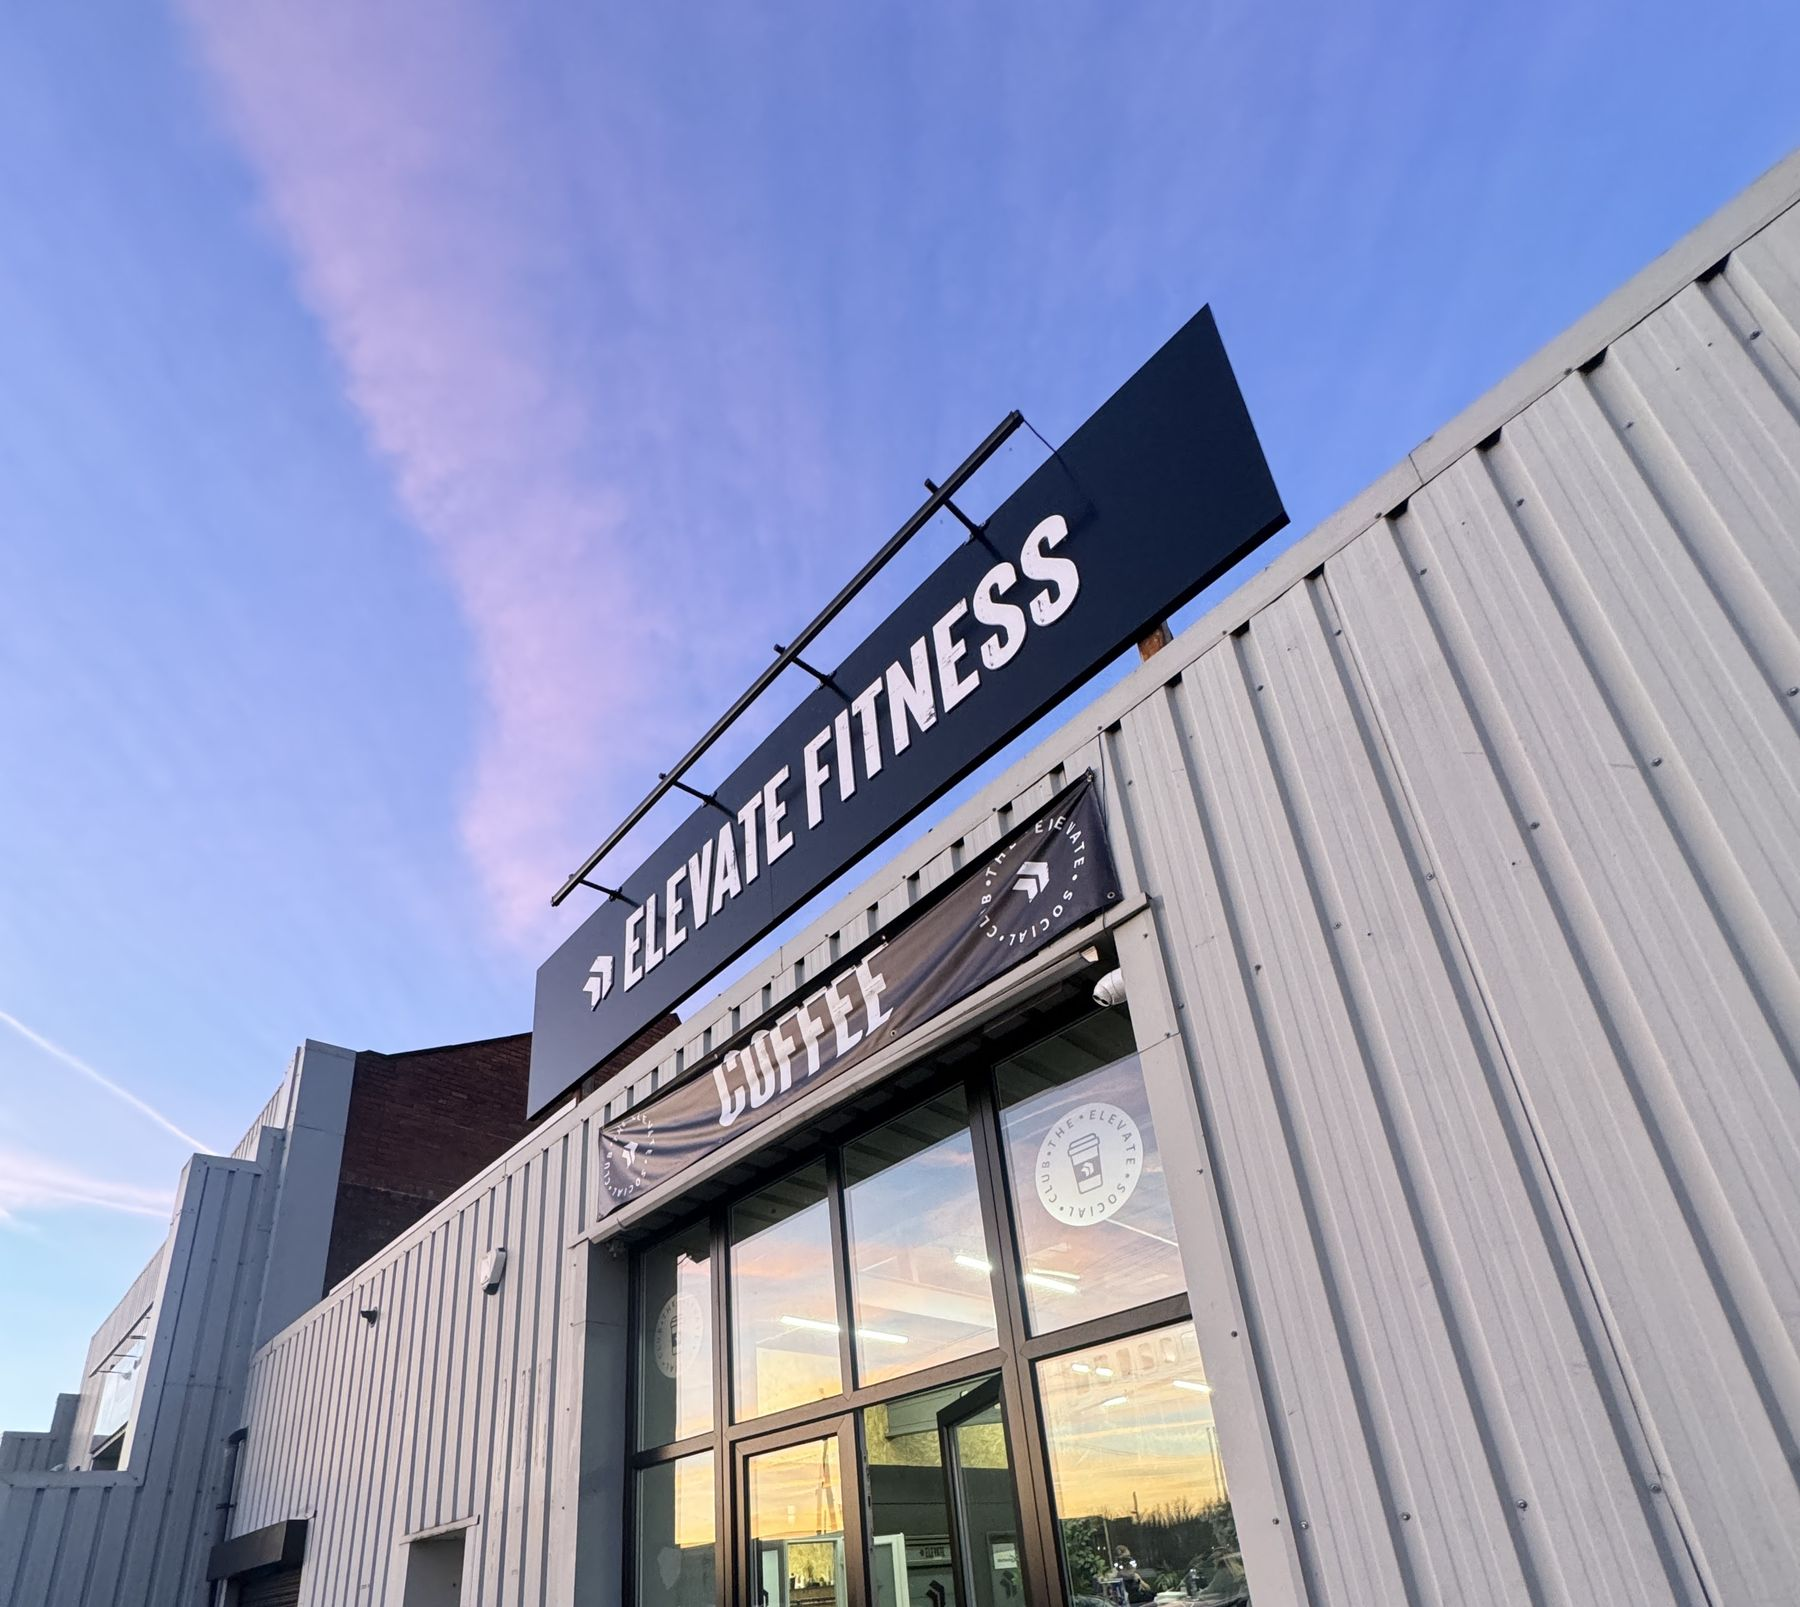
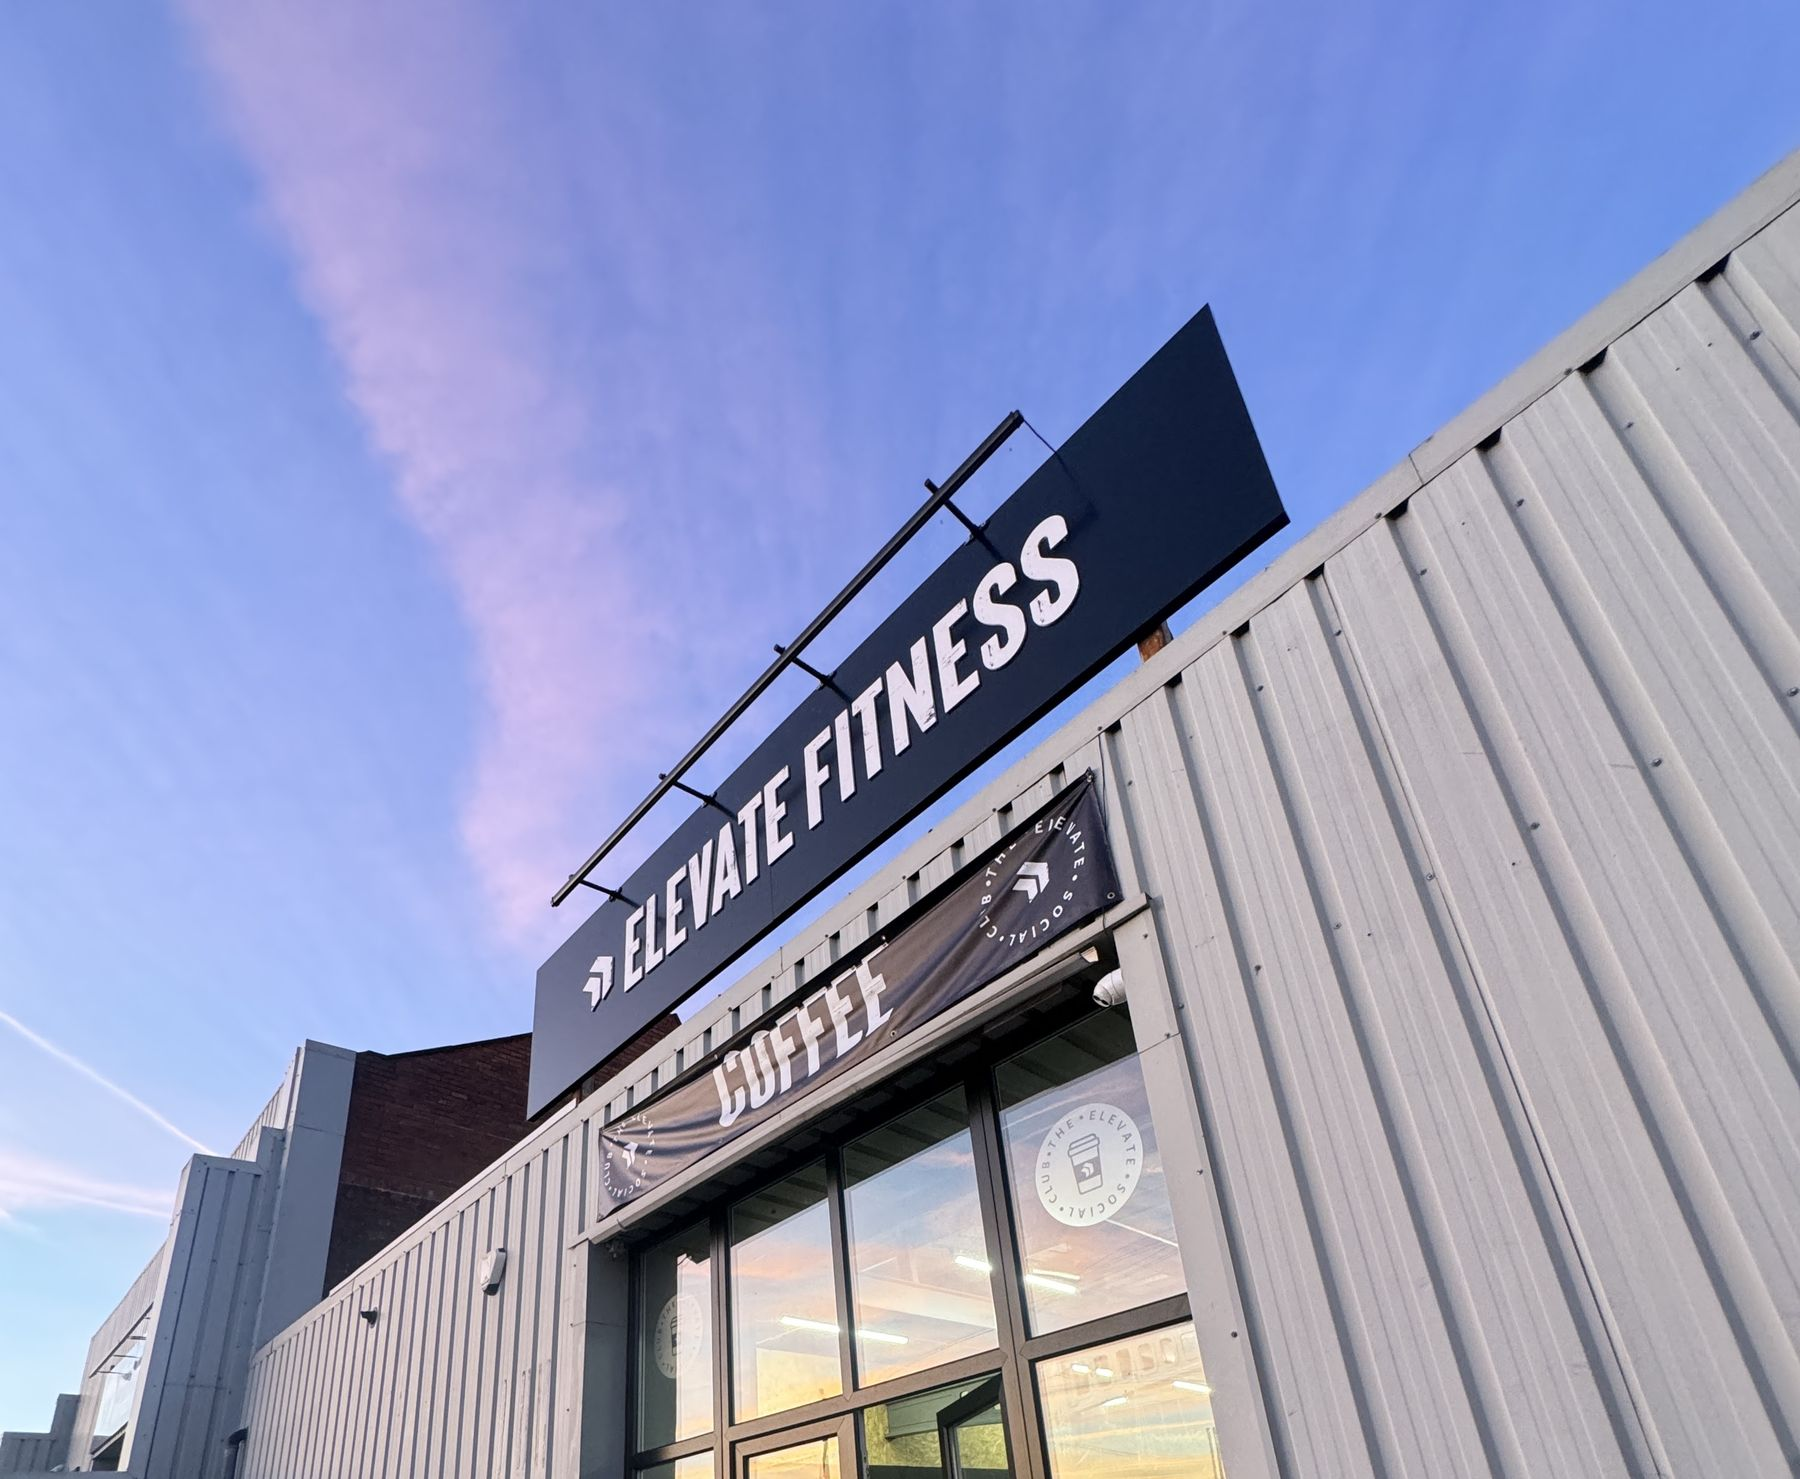
r5: photo-free runs <=0.80 at 320 (entrance after timetable, unit after prices, tighter tail); entrance beside timetable at 960+; hero split panel at 1560+; hero crop 8% off bottom; class intro reword

diff --git a/styles.css b/styles.css
@@ -186,17 +186,23 @@ a { color: inherit; }
 .price-list h3 { font-family: var(--body); font-weight: 700; font-size: 1.0625rem; line-height: 1.3; }
 .price-list p { color: var(--on-purple-soft); font-size: 0.9375rem; line-height: 1.35; }
 .price { font-family: var(--display); font-weight: 800; font-size: 1.35rem; white-space: nowrap; line-height: 1.2; }
-.small-note { margin-top: 0.5rem; font-size: 0.875rem; color: var(--on-purple-soft); }
+.small-note { font-size: 0.875rem; color: var(--on-purple-soft); }
+.mem-head { display: flex; flex-wrap: wrap; align-items: baseline; justify-content: space-between; gap: 0 1rem; }
 .mem-photo img { width: 100%; border-radius: var(--radius); aspect-ratio: 4 / 3; object-fit: cover; }
 /* Below desktop: the unit photo opens the section, above the price list */
 @media (max-width: 959px) {
   .mem-card { display: contents; }
-  .mem-photo { order: -1; }
   .mem-photo img { aspect-ratio: 16 / 10; min-height: 200px; object-position: 50% 40%; }
-  .mem-door img { width: 100%; height: auto; aspect-ratio: 1550 / 900; min-height: 200px; object-fit: cover; object-position: 50% 45%; border-radius: var(--radius); }
-  .mem-door + .hours { position: relative; margin-top: -3rem; margin-inline: 0.5rem; }
+  .mem-photo + .hours { position: relative; margin-top: -3rem; margin-inline: 0.5rem; }
 }
-@media (min-width: 960px) { .mem-door { display: none; } }
+/* Entrance photo follows the timetable (below it on phones, beside it from 960px) */
+.tt-door { margin-top: 0.6rem; }
+.tt-door img { width: 100%; height: auto; aspect-ratio: 1550 / 900; min-height: 200px; object-fit: cover; object-position: 50% 45%; border-radius: var(--radius); }
+@media (min-width: 960px) {
+  .tt-grid { display: grid; grid-template-columns: minmax(0, 1fr) 440px; gap: 2.5rem; align-items: center; }
+  .tt-door { margin: 0; }
+  .tt-door img { aspect-ratio: auto; width: 440px; height: 450px; min-height: 0; object-position: 50% 50%; }
+}
 .hours {
   background: var(--chalk); color: var(--ink);
   border-radius: var(--radius); padding: 1rem 1.1rem;
@@ -229,7 +235,8 @@ a { color: inherit; }
 .ev-text h2 { font-size: clamp(2.4rem, 10vw, 4.2rem); color: var(--purple); }
 .ev-text blockquote { margin: 0.9rem 0 0; padding-left: 1rem; border-left: 4px solid var(--purple); }
 .ev-text blockquote p { font-size: 1.15rem; line-height: 1.45; }
-.ev-text blockquote footer { margin-top: 0.4rem; font-size: 0.9375rem; color: var(--ink-soft); }
+.ev-text blockquote cite { font-style: normal; font-size: 0.9375rem; color: var(--ink-soft); white-space: nowrap; }
+.ev-text blockquote cite::before { content: "– "; }
 .ev-line { margin-top: 0.75rem; font-weight: 600; }
 .inline-link {
   display: inline-flex; align-items: center; min-height: 44px; padding-inline: 2px;
@@ -245,7 +252,7 @@ a { color: inherit; }
   }
   .ev-text h2 { color: var(--lilac); }
   .ev-text blockquote { border-left-color: var(--lilac); }
-  .ev-text blockquote footer { color: var(--on-purple-soft); }
+  .ev-text blockquote cite { color: var(--on-purple-soft); }
 }
 .visit-block {
   background: var(--purple); color: #fff;
@@ -298,25 +305,25 @@ a { color: inherit; }
 
   /* Whiteboard overlaps the rig photo, like the hero panel */
   .timetable { padding-block: 0 1rem; }
-  .board { position: relative; margin: -3rem 0.5rem 0; padding: 0.9rem 0.85rem 1rem; }
-  .board h2 { font-size: 2.2rem; }
+  .board { position: relative; margin: -3rem 0.5rem 0; padding: 0.8rem 0.85rem 0.85rem; }
+  .board h2 { font-size: 2.1rem; }
   .tt { margin-top: 0.5rem; font-size: 0.875rem; }
   .tt tbody, .tt tr { display: block; }
-  .tt tr { border-top: 1px solid var(--ink); padding: 0.3rem 0; line-height: 1.4; }
+  .tt tr { border-top: 1px solid var(--ink); padding: 0.25rem 0; line-height: 1.4; }
   .tt tr:last-child { border-bottom: 1px solid var(--ink); }
   .tt th, .tt td, .tt tr:last-child th, .tt tr:last-child td { display: inline; border: 0; padding: 0; }
   .tt th { width: auto; padding: 0; margin-right: 0.45rem; font-size: 1.15rem; }
   .tt th::after { content: ""; display: inline-block; width: 0.45rem; }
-  .board-foot { gap: 0.6rem; margin-top: 0.75rem; }
+  .board-foot { gap: 0.5rem; margin-top: 0.6rem; }
   .note { font-size: 0.875rem; }
 
 
-  .memberships { padding-block: 0.75rem 1.1rem; }
+  .memberships { padding-block: 0.5rem 1.1rem; }
   .mem-grid { gap: 0.75rem; }
-  .mem-panel h2 { font-size: 1.9rem; }
+  .mem-panel h2 { font-size: 1.75rem; }
   .price-list { margin-top: 0.5rem; }
   /* Name and price on one line, detail runs full width beneath */
-  .price-list li { display: grid; grid-template-columns: 1fr auto; column-gap: 0.75rem; padding: 0.3rem 0; }
+  .price-list li { display: grid; grid-template-columns: 1fr auto; column-gap: 0.75rem; row-gap: 0.05rem; padding: 0.3rem 0; }
   .price-list li > div { display: contents; }
   .price-list h3 { grid-column: 1; grid-row: 1; font-size: 1rem; }
   .price { grid-column: 2; grid-row: 1; font-size: 1.2rem; }
@@ -325,31 +332,31 @@ a { color: inherit; }
   .hours h3 { font-size: 1.45rem; }
   .hours table { font-size: 0.9375rem; margin-top: 0.3rem; }
 
-  .reviews { padding-block: 1rem 0.75rem; }
+  .reviews { padding-block: 0.6rem 0.6rem; }
   .reviews h2 { font-size: 1.4rem; }
-  .review-grid { margin-top: 0.5rem; align-items: stretch; }
-  .review { padding: 0.8rem 0.9rem; gap: 0.5rem; }
+  .review-grid { margin-top: 0.4rem; gap: 0.5rem; align-items: stretch; }
+  .review { padding: 0.65rem 0.8rem; gap: 0.35rem; }
   .review blockquote p { font-size: 0.9375rem; line-height: 1.4; }
   .review figcaption { font-size: 0.875rem; line-height: 1.4; }
 
-  .visit { padding-block: 1rem 0.75rem; }
+  .visit { padding-block: 0.6rem 0.6rem; }
   .ev-grid { gap: 0.6rem; }
-  .ev-text { padding: 0.85rem 0.9rem 0.9rem; }
+  .ev-text { padding: 0.7rem 0.85rem 0.75rem; }
   .ev-text h2 { font-size: 1.85rem; }
-  .ev-text blockquote { margin-top: 0.6rem; padding-left: 0.8rem; }
+  .ev-text blockquote { margin-top: 0.4rem; padding-left: 0.7rem; }
   .ev-text blockquote p { font-size: 0.9375rem; line-height: 1.4; }
-  .ev-text blockquote footer { font-size: 0.875rem; margin-top: 0.25rem; }
+  .ev-text blockquote cite { font-size: 0.875rem; }
   .ev-line { margin-top: 0.5rem; font-size: 0.9375rem; }
-  .visit-block { padding: 0.9rem 1rem 1rem; }
+  .visit-block { padding: 0.75rem 1rem 0.8rem; }
   .visit-block::after { width: 14%; }
   .visit-block > * { max-width: 88%; }
-  .visit-block h2 { font-size: 1.9rem; }
+  .visit-block h2 { font-size: 1.6rem; }
   .visit-block address { margin-top: 0.5rem; }
-  .visit-address { font-size: 1rem; }
+  .visit-address { font-size: 0.9375rem; }
   .tel { font-size: 1.0625rem; }
   .visit-block .btn-row { margin-top: 0.4rem; }
 
-  .site-footer { padding-block: 0.75rem 1rem; }
+  .site-footer { padding-block: 0.6rem 0.7rem; }
   .footer-inner { gap: 0.25rem; }
   .footer-brand, .footer-links { display: none; }
   .footer-links { gap: 0 0.9rem; }
@@ -367,7 +374,7 @@ a { color: inherit; }
   .btn { padding: 0.6rem 0.85rem; font-size: 0.9375rem; }
   .btn-row { gap: 0.45rem; }
   .memberships { padding-top: 0.9rem; }
-  .band-phone { padding-top: 0.75rem; }
+  .band-phone { padding-top: 0.6rem; gap: 0.4rem; }
   .class-list > div { grid-template-columns: 5.6rem minmax(0, 1fr); }
   .price-list li { padding: 0.25rem 0; }
   .price-list p { line-height: 1.25; }
@@ -469,8 +476,16 @@ a { color: inherit; }
   .credit { grid-column: 1 / -1; }
 }
 
-/* Wide screens: cap the hero at the source's native width so 2x screens stay at or under 1.0x */
+/* Wide screens: the photo stops at its native 1512px against the right edge (2x screens stay at or under 1.0x);
+   a full-height solid panel fills the space to its left and carries the heading */
 @media (min-width: 1560px) {
-  .hero-photo { max-width: 1512px; margin-inline: auto; }
-  .hero-panel { left: calc((100% - 1512px) / 2 + 1.5rem); }
+  .hero { display: grid; grid-template-columns: minmax(460px, 1fr) minmax(0, 1512px); background: var(--purple-deep); }
+  .hero-photo { grid-column: 2; grid-row: 1; width: 100%; max-width: 1512px; }
+  .hero-panel {
+    grid-column: 1; grid-row: 1; position: static; min-width: 0; max-width: none;
+    display: flex; flex-direction: column; justify-content: center;
+    padding: 3rem clamp(2rem, 4vw, 4.5rem); border-radius: 0; background: var(--purple-deep);
+  }
+  .hero-panel h1 { font-size: clamp(3rem, 3.4vw, 4.4rem); max-width: 12ch; }
+  .hero-panel p { max-width: 30rem; }
 }

diff --git a/index.html b/index.html
@@ -36,8 +36,8 @@
   <section class="hero" aria-labelledby="hero-title">
     <figure class="hero-photo">
       <picture>
-        <source type="image/webp" srcset="img/hero-1200.webp 1200w, img/hero-1800.webp 1800w, img/hero-2400.webp 2400w, img/hero-3024.webp 3024w" sizes="(max-aspect-ratio: 1/1) calc(100vh * 1.12), (min-width: 1560px) 1512px, 100vw">
-        <img class="hero-img" src="img/hero-1800.jpg" width="1800" height="1607" fetchpriority="high" alt="The Elevate Fitness sign and the COFFEE banner above the glass entrance of Unit 11a at dusk, under a lilac sky">
+        <source type="image/webp" srcset="img/hero-1200.webp 1200w, img/hero-1800.webp 1800w, img/hero-2400.webp 2400w, img/hero-3024.webp 3024w" sizes="(max-aspect-ratio: 1/1) calc(100vh * 1.24), (min-width: 1972px) 1512px, (min-width: 1560px) calc(100vw - 460px), 100vw">
+        <img class="hero-img" src="img/hero-1800.jpg" width="1800" height="1479" fetchpriority="high" alt="The Elevate Fitness sign and the COFFEE banner above the glass entrance of Unit 11a at dusk, under a lilac sky">
       </picture>
     </figure>
     <div class="hero-panel">
@@ -61,7 +61,7 @@
     <div class="wrap classes-grid">
       <div class="classes-head">
         <h2 id="classes-title">Seven classes, one timetable</h2>
-        <p>Every session is coach-led, and Elevate is HYROX affiliated. Descriptions from its own class guide.</p>
+        <p>Every session is coach-led, and Elevate is HYROX affiliated. Summarised from its own class guide.</p>
       </div>
       <dl class="class-list" aria-label="Class types, from Elevate’s class guide">
         <div><dt>HYROX</dt><dd>Ergs, running, stations</dd></div>
@@ -82,7 +82,7 @@
   </section>
 
   <section id="timetable" class="timetable" aria-labelledby="timetable-title">
-    <div class="wrap">
+    <div class="wrap tt-grid">
       <div class="board">
         <h2 id="timetable-title">Winter timetable</h2>
         <table class="tt">
@@ -98,10 +98,16 @@
           </tbody>
         </table>
         <div class="board-foot">
-          <p class="note">From Elevate’s Instagram. Live spaces on WodBoard.</p>
+          <p class="note">Times from Elevate’s Instagram.</p>
           <a class="btn btn-purple" href="https://www.wodboard.com/locations/1076/drop_ins/5667566740" target="_blank" rel="noopener">See live timetable and book</a>
         </div>
       </div>
+      <figure class="tt-door">
+        <picture>
+          <source type="image/webp" srcset="img/esc-entrance-800.webp 800w, img/esc-entrance-1550.webp 1550w" sizes="(min-width: 960px) 780px, max(100vw, 350px)">
+          <img src="img/esc-entrance-1550.jpg" width="1550" height="900" loading="lazy" alt="The open glass doors of Unit 11a with an olive tree in a planter either side and a Recent Beans coffee board by the wall">
+        </picture>
+      </figure>
     </div>
   </section>
 
@@ -109,29 +115,22 @@
   <section id="memberships" class="memberships" aria-labelledby="memberships-title">
     <div class="wrap mem-grid">
       <div class="mem-panel">
-        <h2 id="memberships-title">Memberships</h2>
+        <div class="mem-head"><h2 id="memberships-title">Memberships</h2><p class="small-note">Prices as listed on WodBoard</p></div>
         <ul class="price-list">
-          <li><div><h3>Elevate 12-month</h3><p>Unlimited classes and open gym; first month half price</p></div><span class="price">£63 a month</span></li>
-          <li><div><h3>Elevate rolling monthly</h3><p>Unlimited classes and open gym, 30 days’ notice</p></div><span class="price">£68 a month</span></li>
-          <li><div><h3>Two sessions a week</h3><p>2 classes a week plus unlimited open gym (3-month minimum)</p></div><span class="price">£55 a month</span></li>
+          <li><div><h3>Elevate 12-month</h3><p>Classes and open gym; first month half price</p></div><span class="price">£63 a month</span></li>
+          <li><div><h3>Elevate rolling monthly</h3><p>Classes and open gym; 30 days’ notice</p></div><span class="price">£68 a month</span></li>
+          <li><div><h3>Two sessions a week</h3><p>2 classes a week, open gym; 3-month min.</p></div><span class="price">£55 a month</span></li>
           <li><div><h3>Open gym only</h3><p>No classes, 3-month minimum</p></div><span class="price">£45 a month</span></li>
           <li><div><h3>Elevate junior session</h3></div><span class="price">£39.99 a month</span></li>
           <li><div><h3>Strong 101 bolt-on</h3></div><span class="price">£10 a month</span></li>
           <li><div><h3>7-day trial pass</h3><p>7 sessions within 7 days, one time only</p></div><span class="price">£17</span></li>
         </ul>
-        <p class="small-note">Prices as listed on WodBoard.</p>
       </div>
       <div class="mem-card">
       <figure class="mem-photo">
         <picture>
           <source type="image/webp" srcset="img/unit-11a-1000.webp 1000w, img/unit-11a-1320.webp 1320w" sizes="(min-width: 960px) 440px, 100vw">
           <img src="img/unit-11a-1000.jpg" width="1000" height="750" loading="lazy" alt="The front of Unit 11a at Headway Business Park with the Elevate Fitness sign above the glass entrance">
-        </picture>
-      </figure>
-      <figure class="mem-door">
-        <picture>
-          <source type="image/webp" srcset="img/esc-entrance-800.webp 800w, img/esc-entrance-1550.webp 1550w" sizes="max(100vw, 350px)">
-          <img src="img/esc-entrance-1550.jpg" width="1550" height="900" loading="lazy" alt="The open glass doors of Unit 11a with an olive tree in a planter either side and a Recent Beans coffee board by the wall">
         </picture>
       </figure>
       <div class="hours">
@@ -199,8 +198,7 @@
       <div class="ev-text">
         <h2 id="everything-title">We train everything</h2>
         <blockquote>
-          <p>“Athx, Hyrox, Marathons, Ultras, Back yard ultras, CrossFit comps, Functional fitness comps…. Just some of the things our members have smashed so far this year. Why? Because we train everything.”</p>
-          <footer>Elevate on Instagram</footer>
+          <p>“Athx, Hyrox, Marathons, Ultras, Back yard ultras, CrossFit comps, Functional fitness comps…. Just some of the things our members have smashed so far this year. Why? Because we train everything.” <cite>Elevate on Instagram</cite></p>
         </blockquote>
       </div>
       </div>
